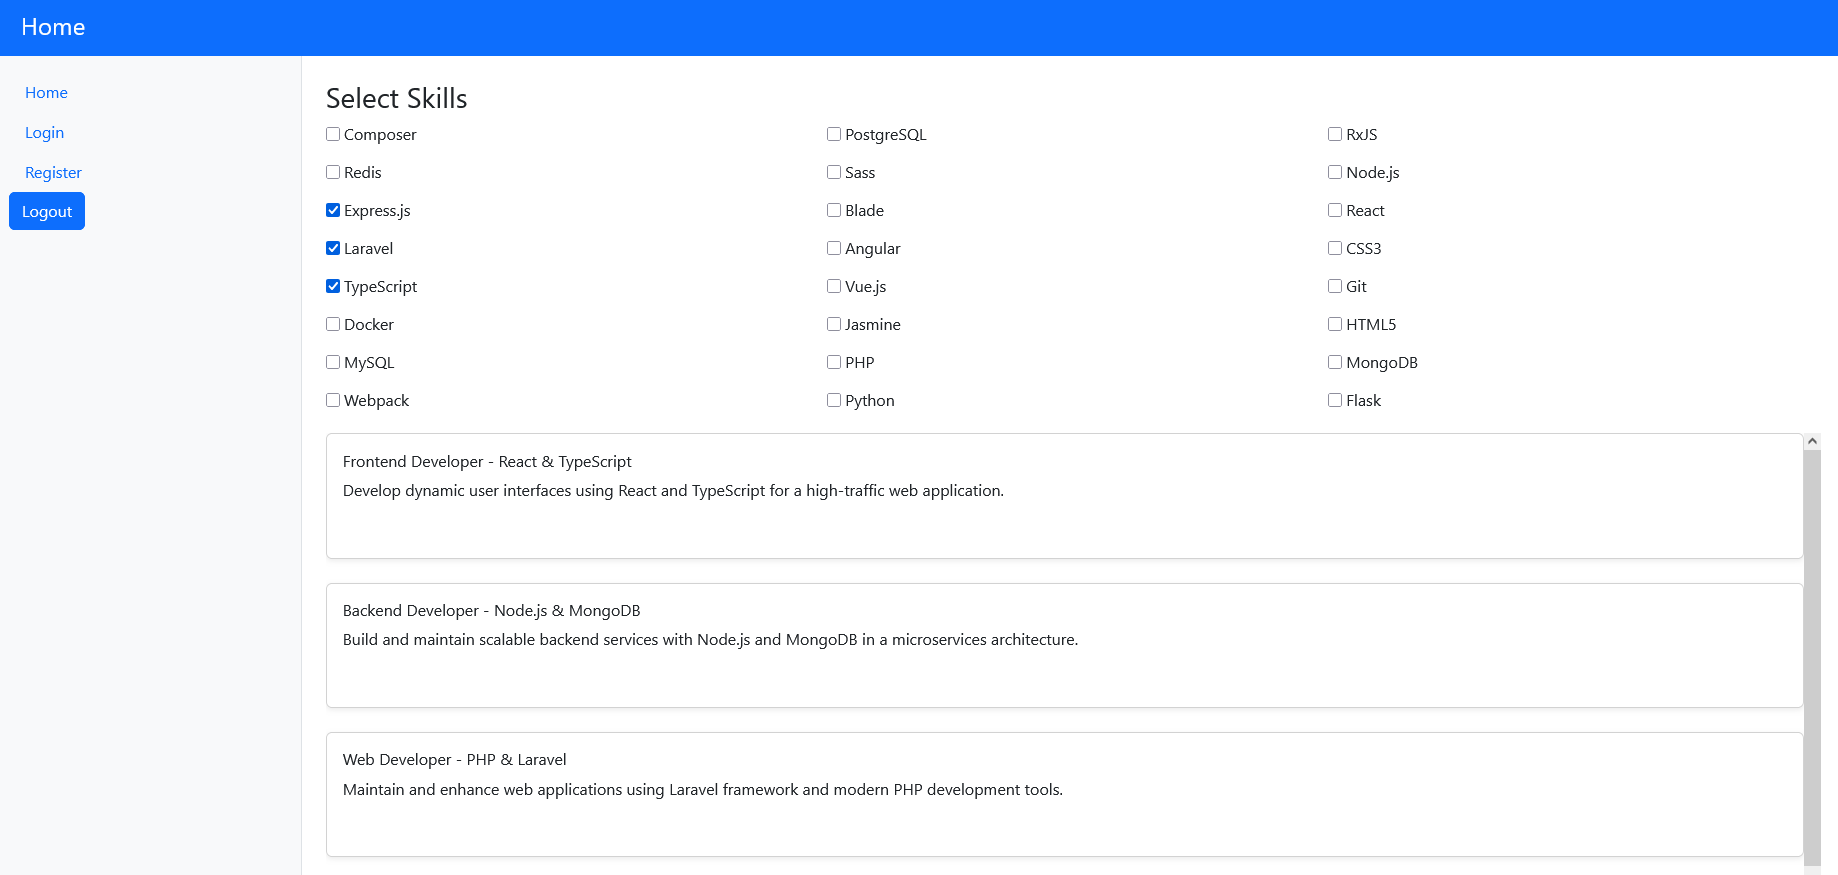
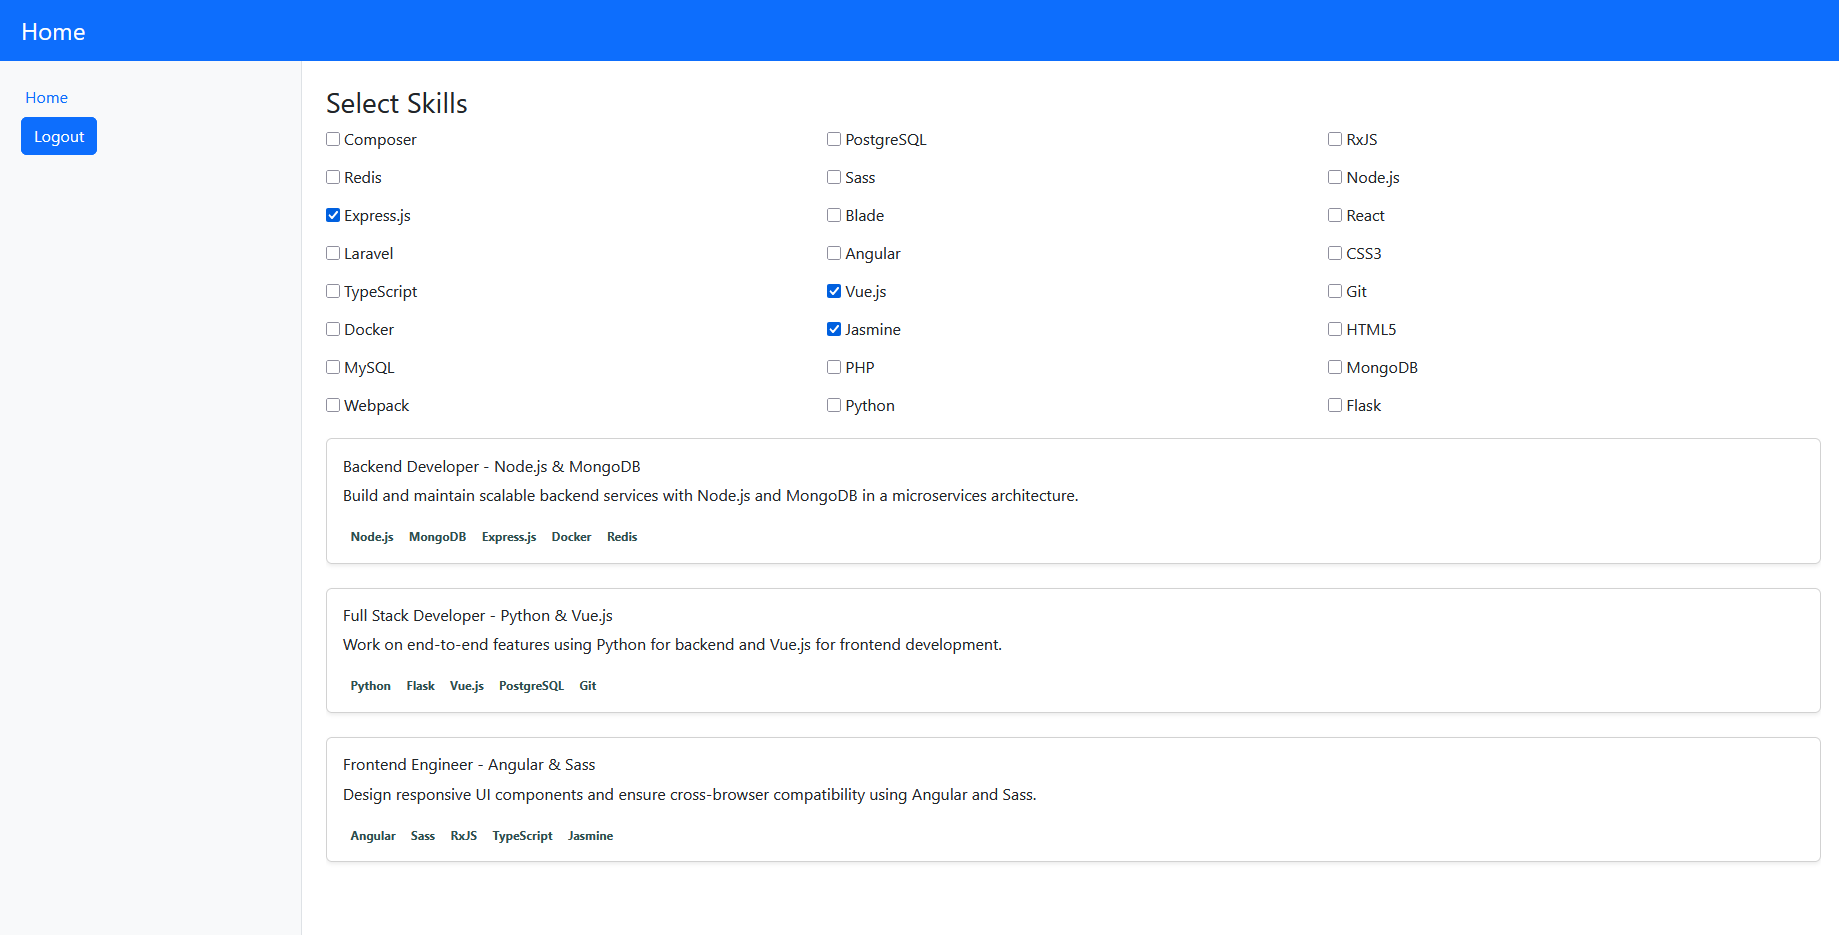
some fixes and README.md update

diff --git a/frontend/src/components/layout/AppLayout.vue b/frontend/src/components/layout/AppLayout.vue
@@ -12,7 +12,7 @@
             <a :href="link.url" class="nav-link">{{ link.text }}</a>
           </li>
         </ul>
-        <button v-if="token" class="btn btn-primary" @click="doLogout()">Logout</button>
+        <button style="margin-left:12px;" v-if="token" class="btn btn-primary" @click="doLogout()">Logout</button>
       </nav>
       <main class="col-md-9 col-lg-10 p-4">
         <slot></slot>
@@ -52,7 +52,12 @@ export default {
           }       
         }
         else{
-          results.push(current);
+          if(current.text == "Login" || current.text == "Register"){
+             if(this.token == undefined){
+                  results.push(current);
+             }
+          }
+         
         }
       }
       return results;

diff --git a/frontend/src/components/Job.vue b/frontend/src/components/Job.vue
@@ -27,5 +27,7 @@
 </script>
 
 <style scoped>
-
+    .badge{
+        color:darkslategray;
+    }
 </style>

diff --git a/README.md b/README.md
@@ -4,5 +4,19 @@
 
 A simple job matching Spring Boot web app. Users can register/login and search jobs according to a list of selected skills they input.
 
+## Technologies
 
-For production run: npm run build and copy the static files from inside the /dist folder into the /backend/src/main/resources/static folder
+- **Backend:** Java, Spring Boot, Spring Security, JWT, Maven
+- **Frontend:** Vue 3, Axios, Bootstrap
+
+
+### Prerequisites
+
+- Java 17+
+- Node.js + npm
+- Maven
+
+## How to run
+
+mvn clean install
+java -jar target/JMatch-1.0-SNAPSHOT.jar
